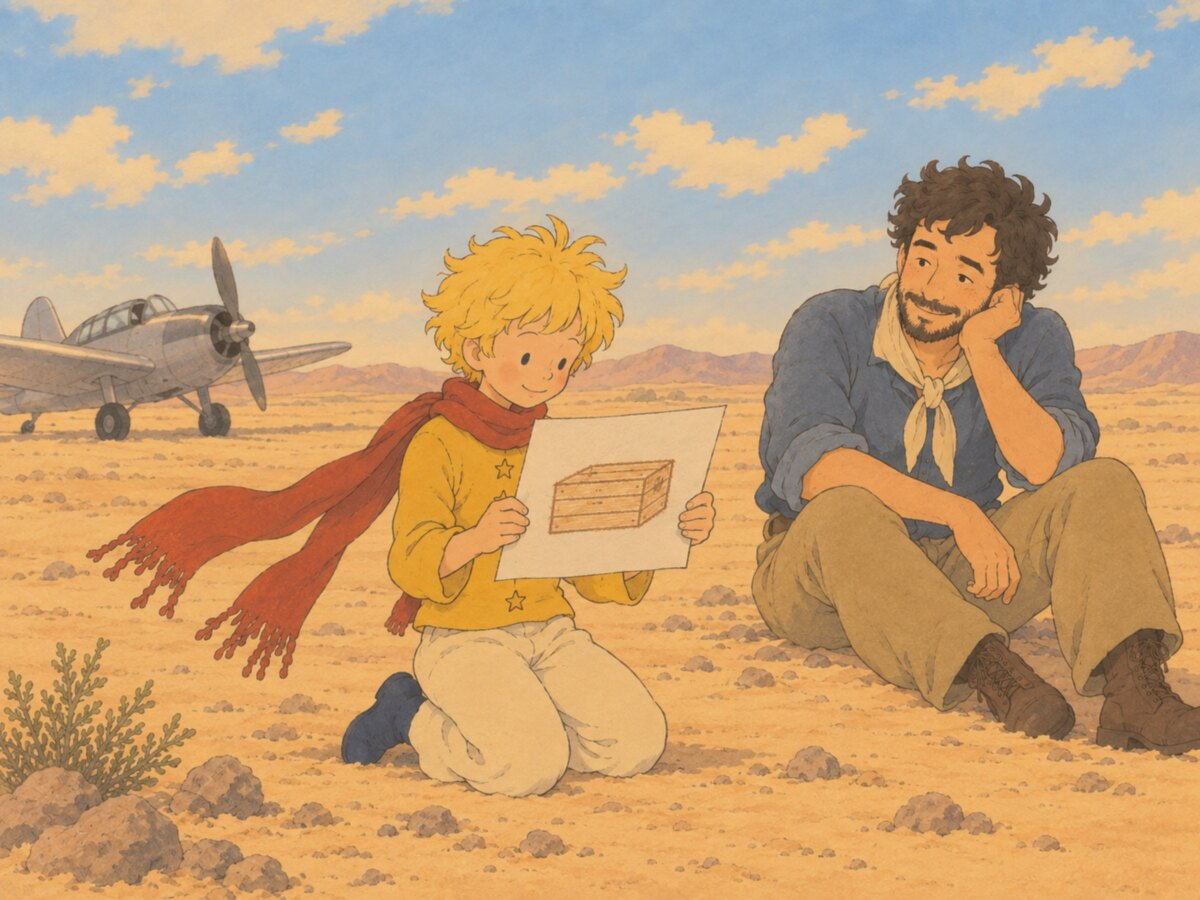
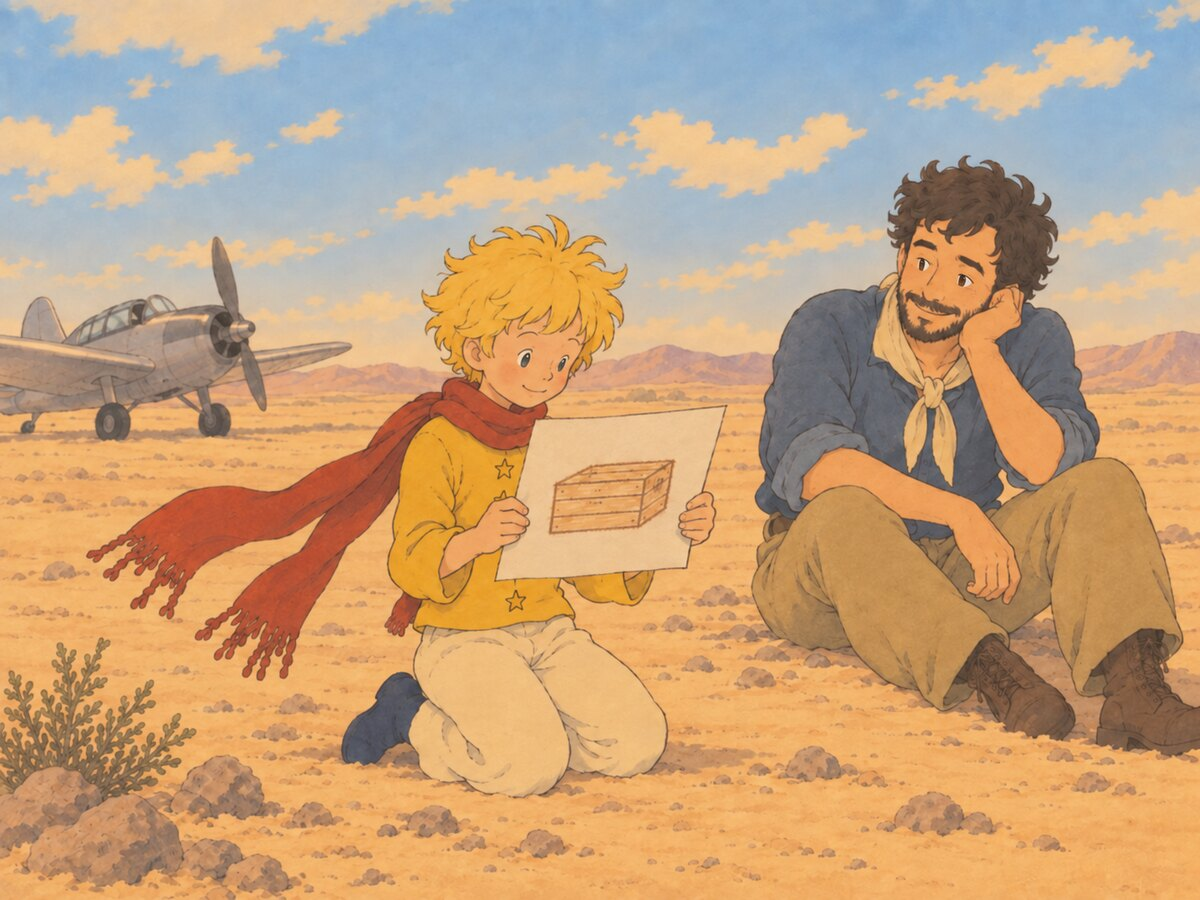
Little Prince in-text pictures: eyes redrawn to match the chapter plates
The 15 pictures with open eyes (02-1 to 02-5, 04-1, 08-1, 09-1, 10-1 to 15-1, 17-1) had solid
black dot eyes. Codex redrew only the eyes in the plates' style: white of the eye, thin upper lid
line, grey-blue iris for the prince and brown for adults, one highlight. Closed and downcast eyes
stay as they were; 20-1 and 26-1 are unchanged. images/README records the eye style.

diff --git a/books/little-prince/images/README.md b/books/little-prince/images/README.md
@@ -39,6 +39,13 @@
 
    인물이 없는 나머지 6장은 채도를 덜 낮추고 조금 더 흐리게 했습니다: `-modulate 86,98,100`, `-blur 0x0.6`.
 
+3. **눈 맞춤** (2026-09-25) — 처음 만든 본문 그림은 눈이 흰자·하이라이트 없는 검은 점이어서 장 삽화와 달랐습니다.
+   눈이 보이는 15장(02-1~02-5, 04-1, 08-1, 09-1, 10-1~15-1, 17-1)의 눈만 Codex로 다시 그렸습니다.
+   장 삽화의 얼굴을 잘라 참고 이미지로 주었습니다: `chapter-08.jpg`·`chapter-13.jpg`의 어린 왕자, `chapter-02.jpg`의 조종사.
+   기준은 다음과 같습니다. 작은 세로 타원 눈에 흰자가 보이고, 얇은 윗눈꺼풀 선이 있습니다. 홍채는 어린 왕자가 회청색, 어른이 갈색이고, 흰 하이라이트 점이 하나 있습니다.
+   감은 눈과 내리깐 눈은 그대로 두었습니다. 색은 거의 바뀌지 않아 색 보정 없이 1200×900으로 줄이기만 했습니다.
+   20-1(얼굴이 풀에 묻힘)과 26-1(눈 감음)은 손대지 않았습니다. 새 그림을 추가할 때도 이 눈 표현을 따르세요.
+
 Codex 원본 PNG는 남아 있지 않습니다. 다시 편집할 때는 이 폴더의 JPEG에서 시작하세요(색 보정을 두 번 거치지 않도록 `-modulate`·`-colorize`는 빼거나 약하게).
 
 한 그림을 다시 편집할 때 확인할 점: 새 그림은 장 삽화보다 인물이 가깝게 잡힌 구도가 많습니다.
